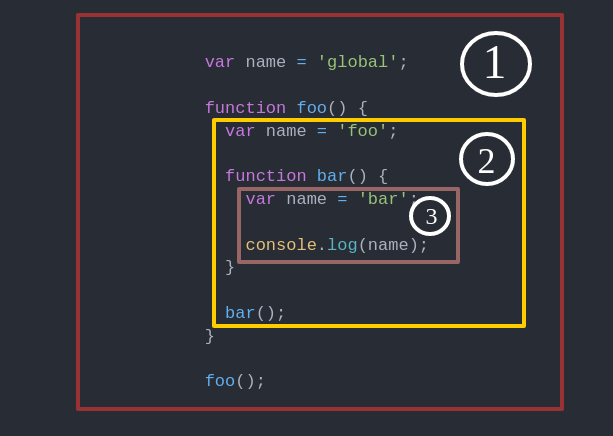
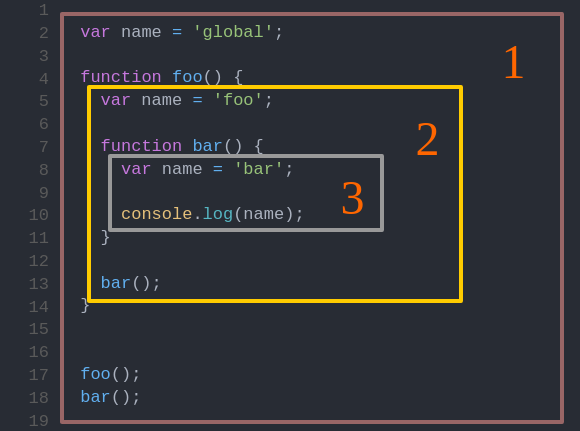
JS 作用域

Changed region(s): [[0.031, 0.0302, 0.9931, 0.9954], [0.3414, 0.8445, 0.4345, 0.9049], [0.031, 0.5429, 0.0621, 0.5731]]

diff --git a/js-scope/README.md b/js-scope/README.md
@@ -41,5 +41,6 @@
 
 ③ 包含着函数 bar 创建的作用域，其中只有一个标识符：name
 
+执行这段程序首先输出 'bar'，然后报引用错误 `ReferenceError: bar is not defined`。
 
-执行这段程序输出结果为 'bar'，可见在 JS 中函数在执行查找变量时，根据当前所处作用域由内向外查找，如果多层的嵌套作用域中存在同名变量时，内部作用域的变量值将屏蔽外部作用域的同名变量的值
+可见在 JS 中函数在执行查找变量时，根据当前所处作用域由内向外查找，如果多层的嵌套作用域中存在同名变量时，内部作用域的变量值将屏蔽外部作用域的同名变量的值，简单来说就是由内向外就近原则；此外，外部作用域无法直接访问其内部作用域中的变量或者函数。
